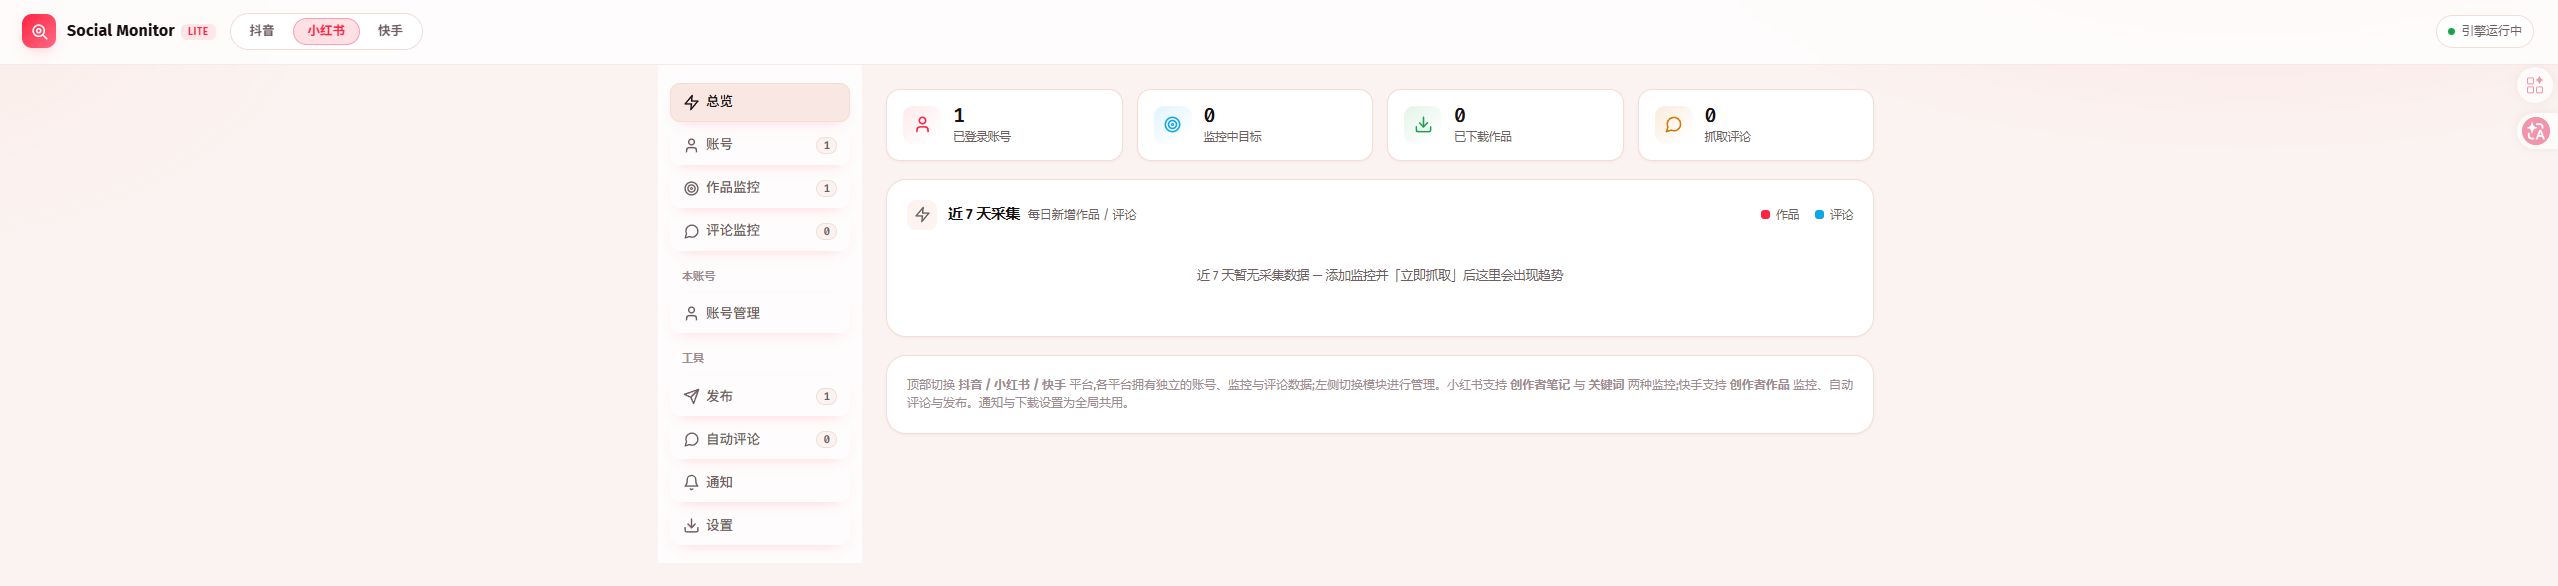
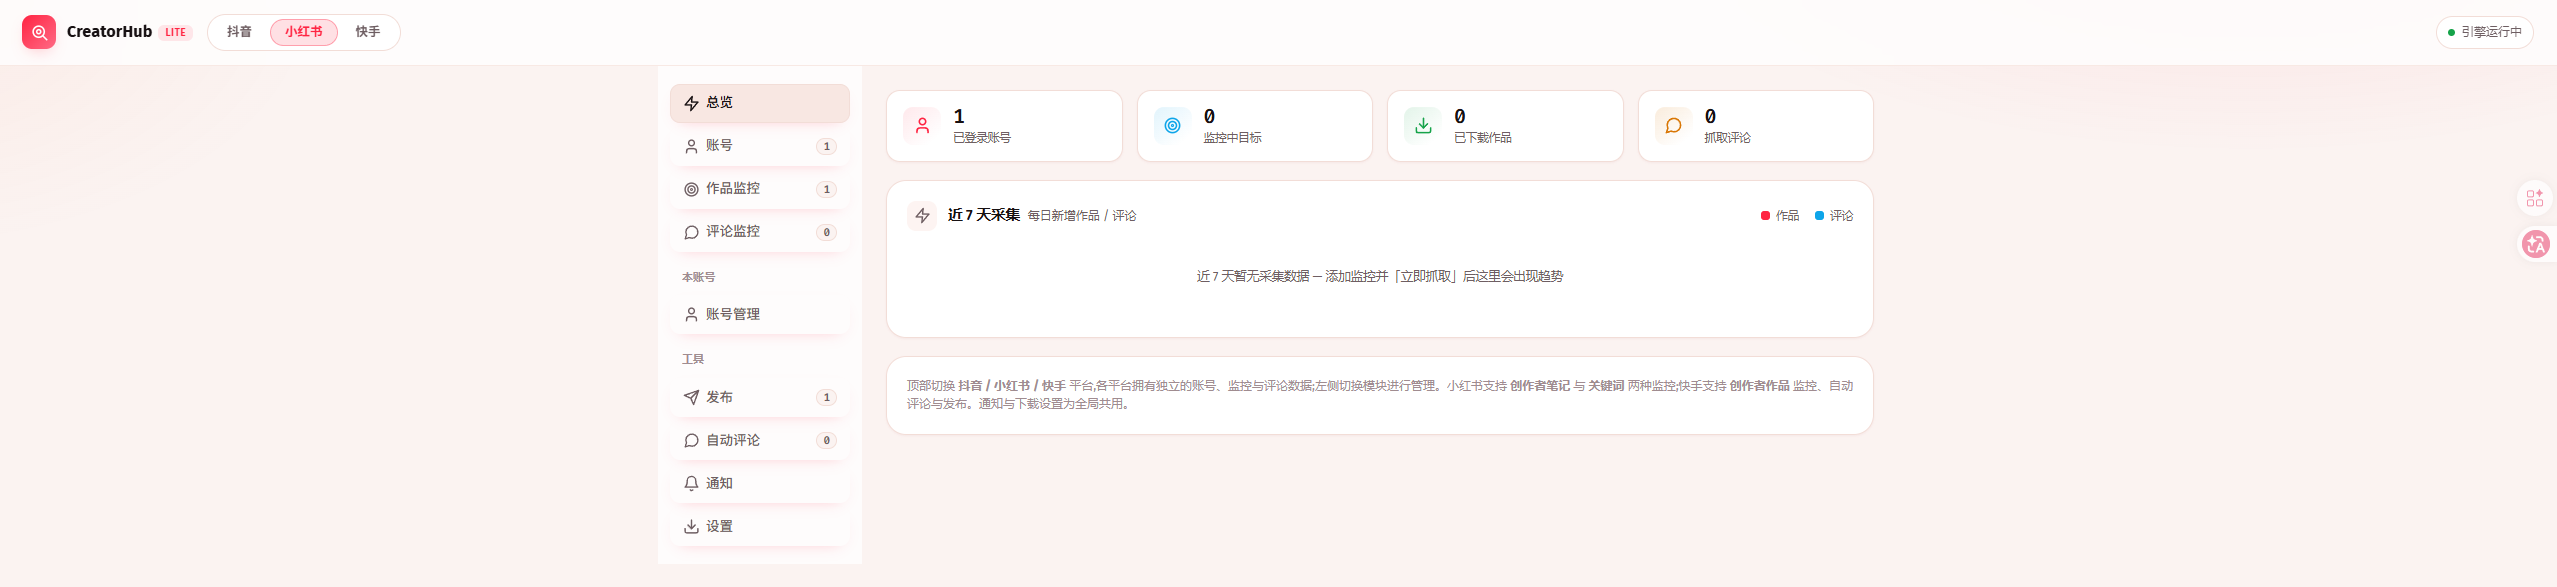
docs(readme): 更新界面预览截图为最新 6 张并补充功能描述
删除废弃的旧账号截图,替换总览抖音/小红书图,新增账号+代理池、
作品监控、评论监控、本账号管理/私信截图,每张配对应功能说明。

diff --git a/README.md b/README.md
@@ -10,15 +10,27 @@
 
 ## 界面预览
 
-**总览面板** —— 顶部一键切换 **抖音 / 小红书 / 快手**，深浅主题随平台自动切换：
+**总览面板** —— 顶部一键切换 **抖音 / 小红书 / 快手**，深浅主题随平台自动切换，近 7 天采集趋势与关键指标一屏看全：
 
 ![总览面板 · 抖音（深色）](assets/screenshots/overview-douyin.png)
 
 ![总览面板 · 小红书（浅色）](assets/screenshots/overview-xiaohongshu.png)
 
-**账号管理 + 代理池** —— 多账号登录态检测、一键重登，一号一代理防关联：
+**账号 + 代理池** —— 扫码 / 创作者 / Cookie 多方式登录，多账号登录态检测与一键重登；一号一代理固定绑定防关联，支持批量导入与自动分配：
 
-![账号管理与代理池](assets/screenshots/accounts.png)
+![账号登录与代理池](assets/screenshots/accounts-proxy.png)
+
+**作品监控** —— 粘贴主页链接即可轮询新作品并自动下载，可选画质与下载目录；最新作品列表带下载状态，支持一键搬运到小红书：
+
+![作品监控与下载](assets/screenshots/monitor-posts.png)
+
+**评论监控** —— 订阅单条视频或整个账号的评论区，定时抓取新评论并落库，支持公开评论区来源与自动识别：
+
+![评论监控](assets/screenshots/monitor-comments.png)
+
+**本账号管理** —— 打通本账号的作品 / 关注 / 粉丝 / 私信；私信支持无头历史拉取与浏览器实时收发（imapi protobuf，纯 Cookie 免签名）：
+
+![本账号管理与私信](assets/screenshots/account-hub-dm.png)
 
 ---
 